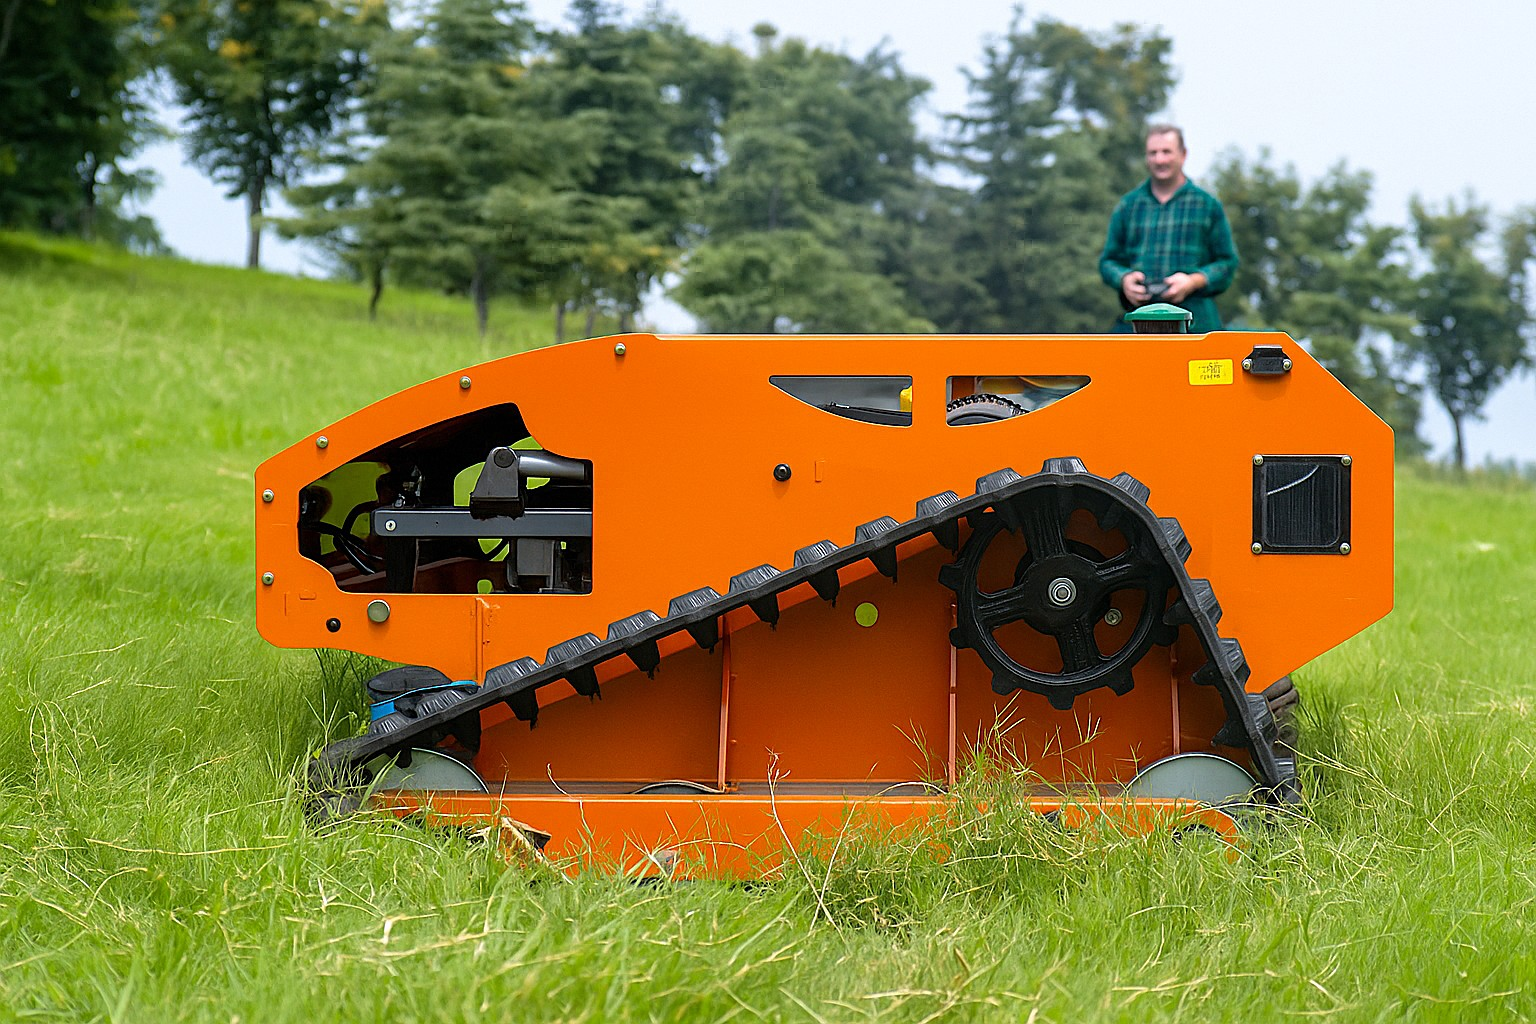
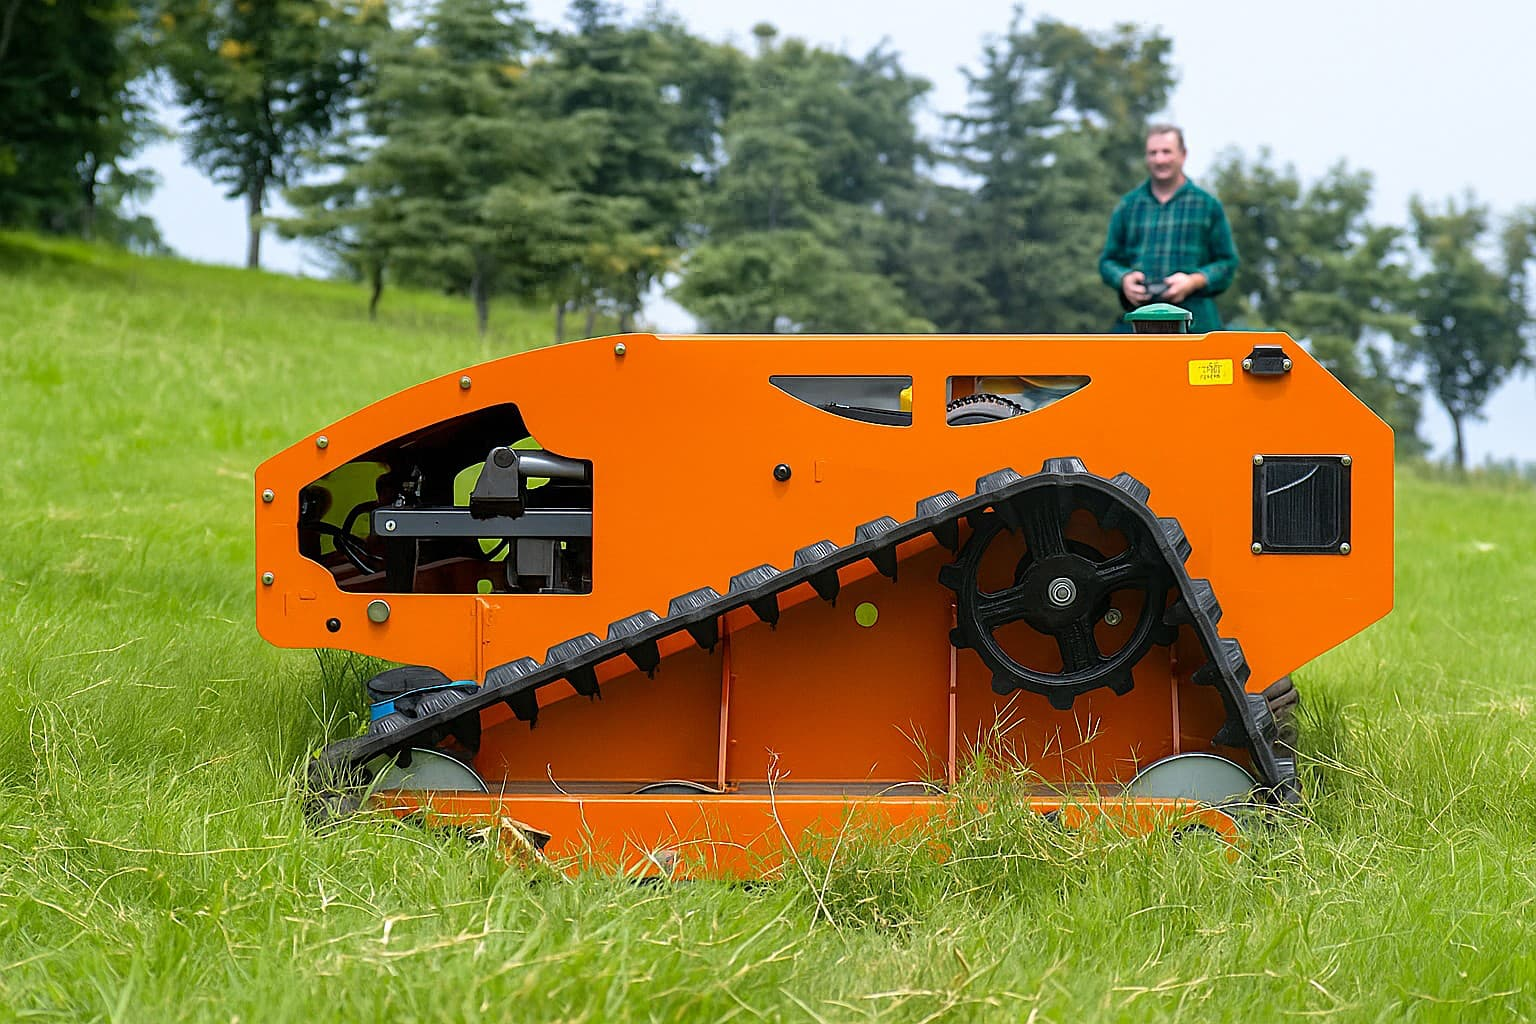
8.7.2025

diff --git a/app/components/SectionModels.jsx b/app/components/SectionModels.jsx
@@ -3,7 +3,7 @@ import React, { useState } from 'react';
 import './section-models.css';
 
 const SectionModels = () => {
-	const imgMain = '/images/7_nobg.png';
+	const imgMain = '/images/7_nobg.jpg';
 	const sbModels = [
 		{
 			modelName: 'Mulčer KM-55',
@@ -15,7 +15,7 @@ const SectionModels = () => {
 			dimenzije: '9200 x 1030 x 630',
 			maxKosnja: 'Maksimalen naklon 40°',
 			teza: '143kg',
-			image: '/images/mulčer_prva.png',
+			image: '/images/mulčer_prva.jpg',
 			descriptionUp:
 				'Daljinsko vodena mulčerska kosilnica odlična izbira za manj zahtevna opravila in za uporabnike, ki vzdržujejo površine do 2000 m². Zaradi svoje okretnosti in daljinskega vodenja je idealna za manj dostopne in razgibane terene. ',
 			descriptionDown:
@@ -32,7 +32,7 @@ const SectionModels = () => {
 			dimenzije: 'Model 0 tekst',
 			maxKosnja: 'Model 0 tekst',
 			teza: 'Model 0 tekst',
-			image: '/images/mulčer_druga.png',
+			image: '/images/mulčer_druga.jpg',
 			descriptionUp:
 				'Mulčerska kosilnica KM80 je robustnejši model, namenjen zahtevnejšim uporabnikom. V primerjavi z našo klasično 55 cm kosilnico nudi širšo delovno širino, večjo učinkovitost in hitrejše pokrivanje večjih površin. Zahvaljujoč zmogljivemu 452 ccm motorju s 16 konjskimi močmi zlahka opravi z visoko, gosto ter tudi olesenelo travo. Kosilnica brez težav deluje na strmih terenih z naklonom nad 45°, obenem pa omogoča učinkovito košnjo površin, večjih od 2000 m².',
 			descriptionDown:
@@ -48,7 +48,7 @@ const SectionModels = () => {
 			dimenzije: 'Model 0 tekst',
 			maxKosnja: 'Model 0 tekst',
 			teza: 'Model 0 tekst',
-			image: '/images/7.png',
+			image: '/images/7.jpg',
 			descriptionUp:
 				'Mulčerska kosilnica KM100 predstavlja najmočnejši model v naši ponudbi, zasnovan za obvladovanje največjih in najzahtevnejših terenov. Z večjimi dimenzijami kot KM80 omogoča še večjo delovno širino, večjo produktivnost in učinkovitejše pokrivanje površin v krajšem času',
 			descriptionDown:
@@ -64,7 +64,7 @@ const SectionModels = () => {
 			dimenzije: 'Model 0 tekst',
 			maxKosnja: 'Model 0 tekst',
 			teza: 'Model 0 tekst',
-			image: '/images/6.png',
+			image: '/images/6.jpg',
 			descriptionUp:
 				'Daljinsko vodena mulčerska kosilnica na kolesih s pogonom 4x4 združuje vse ključne karakteristike modela s širino reza 55 cm – zmogljiv 224 ccm bencinski motor z močjo 9 KM (6,62 kW), avtomatsko polnjenje baterije prek alternatorja in nizko porabo goriva do 0,8 litra na uro. ',
 			descriptionDown:
@@ -81,7 +81,7 @@ const SectionModels = () => {
 		dimenzije: '9200 x 1030 x 630',
 		maxKosnja: 'Maksimalen naklon 40°',
 		teza: '143kg',
-		image: '/images/mulčer_prva.png',
+		image: '/images/mulčer_prva.jpg',
 		descriptionUp:
 			'Daljinsko vodena mulčerska kosilnica odlična izbira za manj zahtevna opravila in za uporabnike, ki vzdržujejo površine do 2000 m². Zaradi svoje okretnosti in daljinskega vodenja je idealna za manj dostopne in razgibane terene. ',
 		descriptionDown:

diff --git a/app/components/section-five.css b/app/components/section-five.css
@@ -29,16 +29,16 @@
 	grid-column: span 1;
 }
 .one {
-	background-image: url('/images/6.png');
+	background-image: url('/images/6.jpg');
 }
 .two {
-	background-image: url('/images/9.png');
+	background-image: url('/images/mulčer_prva.jpg');
 }
 .three {
-	background-image: url('/images/2.png');
+	background-image: url('/images/2.jpg');
 }
 .four {
-	background-image: url('/images/4.png');
+	background-image: url('/images/4.jpg');
 }
 
 .sb-section-five-subtitle {

diff --git a/app/components/section-img.css b/app/components/section-img.css
@@ -2,7 +2,7 @@
 	grid-column: full-start-section/full-end-section;
 	display: grid;
 	background: linear-gradient(rgba(27, 28, 29, 0.99), rgb(27, 28, 29, 0.7)),
-		/* Gradient overlay */ url('/images/park-bg-two.png'); /* Background image */
+		/* Gradient overlay */ url('/images/park-bg-two.jpg'); /* Background image */
 	background-size: cover;
 	background-position: center;
 	background-repeat: no-repeat;

diff --git a/app/components/section-two.css b/app/components/section-two.css
@@ -19,7 +19,7 @@
 	background: url('/images/mulčer_tretja.jpg') no-repeat center center/cover;
 }
 .sb-section-two-img-second {
-	background: url('/images/mulčer_četrta.png') no-repeat center center/cover;
+	background: url('/images/mulčer_četrta.jpg') no-repeat center center/cover;
 }
 
 .sb-section-two-content {

diff --git a/app/components/header.css b/app/components/header.css
@@ -7,7 +7,7 @@
 }
 .sb-header-background {
 	background: linear-gradient(rgba(0, 0, 0, 0.4), rgba(0, 0, 0, 0.3)),
-		url('/images/mulčer_9.png');
+		url('/images/mulčer_9.jpg');
 	background-size: cover;
 	background-position: center;
 	background-repeat: no-repeat;

diff --git a/app/components/section-one.css b/app/components/section-one.css
@@ -10,7 +10,7 @@
 .sb-section-one-content {
 }
 .sb-section-one-img {
-	background: url('/images/4.png') no-repeat center center/cover;
+	background: url('/images/4.jpg') no-repeat center center/cover;
 	height: 60vh;
 	grid-column: span 2;
 }
